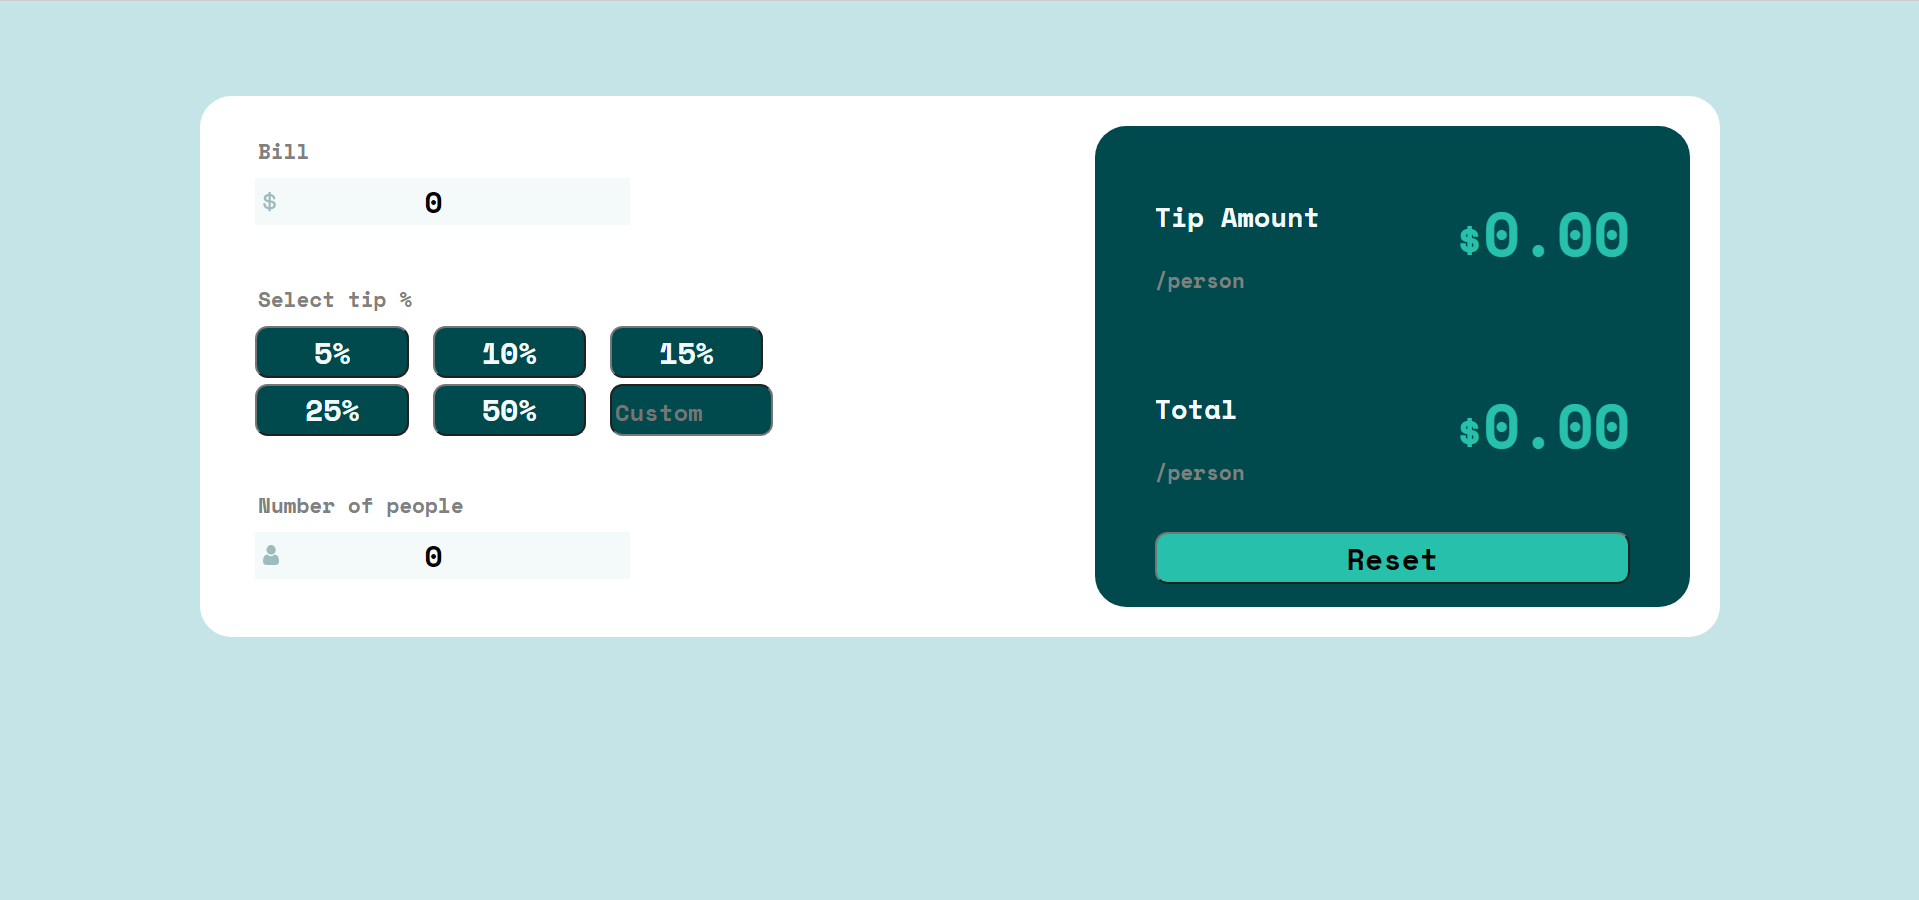
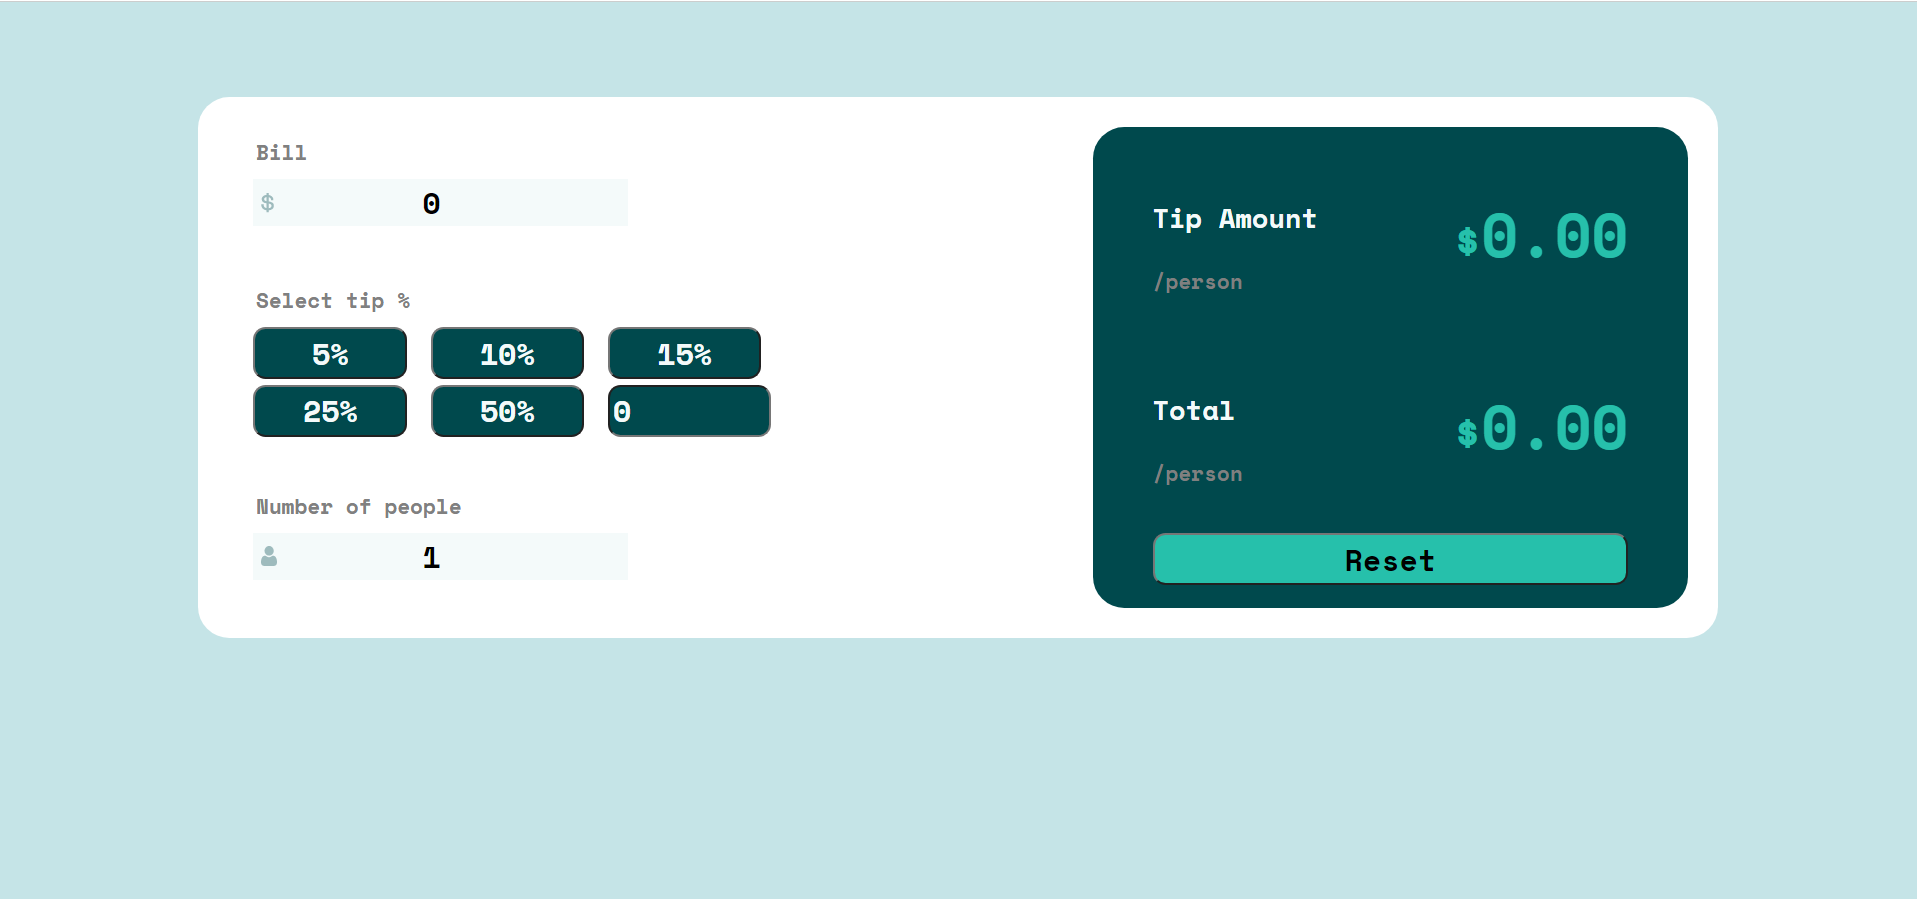
Final 1.0

diff --git a/src/componentes/btnsPorcentage.jsx b/src/componentes/btnsPorcentage.jsx
@@ -165,6 +165,7 @@ function BtnsPorcentage(props) {
           btnStatus.botão6 = "btn-active";
         }}
         value={porcentageCustom}
+        placeholder="Custom %"
         className={btnStatus.botão6}
       />
     </React.Fragment>

diff --git a/README.md b/README.md
@@ -11,13 +11,19 @@
  <br/>
  <br/>
 
-<h3><i>Veja:</i></h3> 
- <img src='C:\Users\knjnnnk\gorjetacalc\2022-02-12-20-28-03_Trim-_2_.gif'/>
+<h3><i>Veja:</i></h3>
+
+ <img src='imagensReadme\2022-02-14-13-57-17_Trim.gif'>
  <img src='imagensReadme\gorjetas.png'>
  <img src='imagensReadme\gorjetas2.png'>
  <img src='imagensReadme\gorjetas3.png'>
+ <img src='imagensReadme\gorjetas4.png'>
   
  <h4 align="center"> 
 	🚧  Calculadora de Gorjetas 🚀 Projeto Finalizado...  🚧
 </h4>
-
+  <hr/>
+ <h4 align="center"> 
+	 Mobile....
+</h4>
+ <img align="center" src='imagensReadme\WhatsApp-Video-2022-02-14-at-22.11.48.gif'/>
